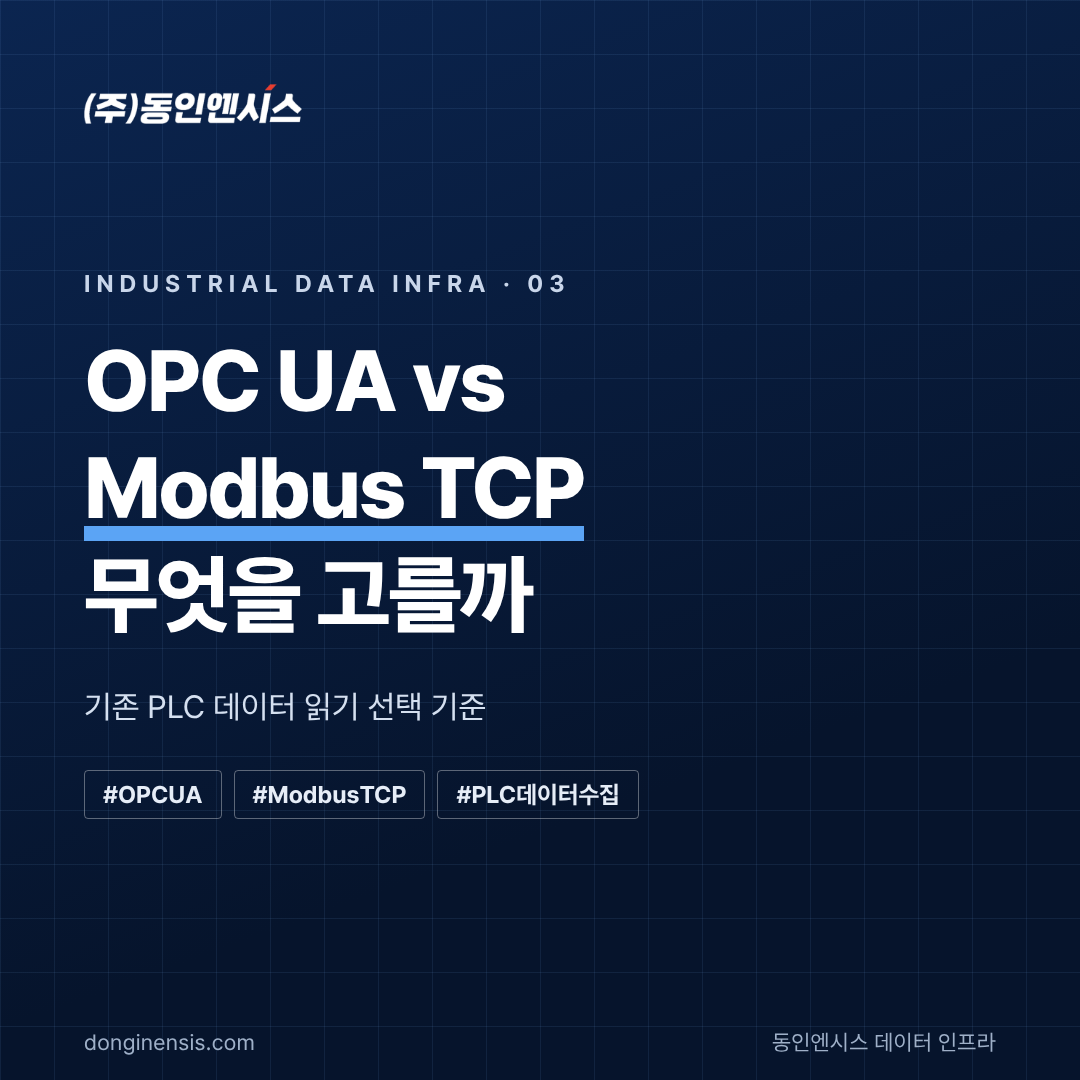
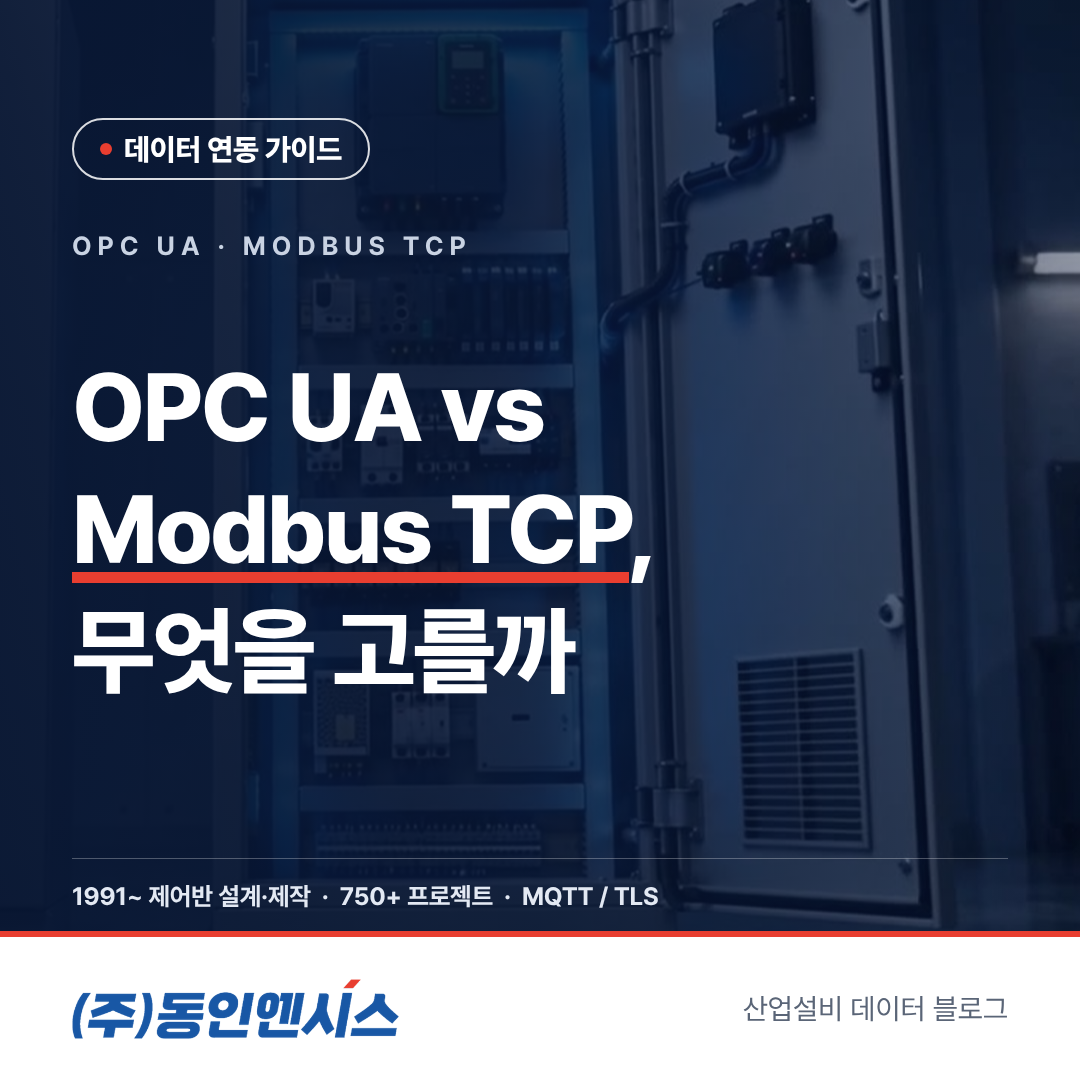
대표 이미지를 세 블로그 기존 썸네일 서식으로 통일
- blog/images.py thumb_fragment: 블로그별 배경 사진·라벨·빨간 밑줄 제목·아래 흰 띠(로고+블로그 문구)
- assets/thumb-bg/: 블로그별 배경 (bmk3037 어두운 제어반 열, donginensis 문 열린 제어반, donginensis3047 밝은 파란 제어반)
- 10/15~10/17 초안 9편 표지 다시 만듦, DAILY.md 표지 명령 변경

Claude-Session: https://claude.ai/code/session_01NXsXRUGdEyZ6oniYW4daEY

diff --git a/assets/image.css b/assets/image.css
@@ -133,3 +133,36 @@ table.cmp td:first-child { font-weight: 800; width: 22%; }
   background: rgba(6, 20, 44, .72); padding: 6px 12px; border-radius: 4px;
 }
 .photo > img.wm { position: absolute; right: 22px; bottom: 22px; height: 22px; opacity: .92; }
+
+/* ── 블로그 대표 이미지(썸네일) — 세 블로그에 이미 올라간 썸네일 서식을 그대로 따름 ──
+   .thumb.t-bmk3037 / .t-donginensis / .t-donginensis3047, 1080×1080 */
+.thumb { position: relative; width: 1080px; height: 1080px; overflow: hidden; background: #fff; font-family: "Pretendard", sans-serif; }
+.thumb .ph { position: absolute; left: 0; top: 0; width: 1080px; height: 937px; background-size: cover; background-position: center; }
+.thumb .ov { position: absolute; left: 0; top: 0; width: 1080px; height: 937px; }
+.thumb .body { position: absolute; left: 72px; right: 72px; top: 118px; color: #fff; }
+.thumb .pill { display: inline-flex; align-items: center; gap: 12px; height: 62px; padding: 0 26px; border-radius: 31px;
+  font-size: 30px; font-weight: 800; letter-spacing: -0.3px; }
+.thumb .pill i { width: 12px; height: 12px; border-radius: 50%; background: var(--red); display: inline-block; }
+.thumb .en { margin-top: 50px; font-size: 26px; font-weight: 700; letter-spacing: 6px; color: #C9D3E3; }
+.thumb h1 { margin: 86px 0 0; font-size: 96px; line-height: 1.27; font-weight: 800; letter-spacing: -2.5px; color: #fff; }
+.thumb h1 em { font-style: normal; color: #fff; background: linear-gradient(transparent 88%, var(--red) 88%, var(--red) 97%, transparent 97%); }
+.thumb .bar { position: absolute; left: 0; top: 931px; width: 1080px; height: 6px; background: var(--red); }
+.thumb .strip { position: absolute; left: 0; top: 937px; width: 1080px; height: 143px; display: flex; align-items: center;
+  justify-content: space-between; padding: 0 72px; background: #fff; }
+.thumb .strip img { height: 60px; }
+.thumb .strip span { font-size: 29px; color: #5A6577; }
+.thumb .spec { position: absolute; left: 72px; right: 72px; top: 858px; padding-top: 22px; border-top: 1.5px solid rgba(255,255,255,.28);
+  font-size: 25px; font-weight: 700; color: #E3E9F3; letter-spacing: -0.2px; }
+.thumb .since { position: absolute; left: 72px; top: 800px; height: 70px; padding: 0 30px; border-radius: 35px; background: #fff;
+  display: inline-flex; align-items: center; gap: 12px; font-size: 27px; font-weight: 800; color: #111B2E; }
+.thumb .since i { width: 14px; height: 14px; border-radius: 50%; background: #1DB45A; display: inline-block; }
+
+/* 현장 이야기(bmk3037): 파란 채운 라벨, 파란 선 */
+.thumb.t-bmk3037 .ov { background: linear-gradient(90deg, rgba(10,32,72,.94) 0%, rgba(10,32,72,.86) 55%, rgba(10,32,72,.70) 100%); }
+.thumb.t-bmk3037 .pill { background: #1857A5; color: #fff; }
+.thumb.t-bmk3037 .bar { background: #1857A5; }
+/* 데이터 인프라(donginensis): 테두리 라벨 + 빨간 점, 아래 실적 줄 */
+.thumb.t-donginensis .ov { background: linear-gradient(90deg, rgba(8,22,50,.95) 0%, rgba(8,22,50,.84) 50%, rgba(8,22,50,.45) 100%); }
+.thumb.t-donginensis .pill, .thumb.t-donginensis3047 .pill { border: 2px solid rgba(255,255,255,.85); color: #fff; }
+/* 지능형 제어반(donginensis3047): 밝은 파란 사진, 흰 '1991~' 라벨 */
+.thumb.t-donginensis3047 .ov { background: linear-gradient(90deg, rgba(10,36,84,.92) 0%, rgba(12,44,100,.70) 52%, rgba(12,44,100,.12) 100%); }

diff --git a/posts/2026-10-15-donginensis3047-001/preview.html b/posts/2026-10-15-donginensis3047-001/preview.html
@@ -14,7 +14,7 @@ button.done{background:#555}
 ol.check{margin:0;padding-left:20px;line-height:1.8;font-size:14px}
 #post{background:#fff;border:1px solid #dde2ea;border-radius:10px;padding:28px 24px}
 </style></head><body><div class="wrap">
-<div class="panel" style="background:#1857A5;color:#fff;border-color:#1857A5"><div style="font-size:13px;opacity:.85">이 글을 올릴 블로그</div><div style="font-size:20px;font-weight:700;margin-top:2px">동인엔시스 지능형 제어반 · <a href="https://blog.naver.com/donginensis3047" target="_blank" style="color:#fff">blog.naver.com/donginensis3047</a></div><div style="font-size:13px;opacity:.85;margin-top:4px">다른 블로그에 올리지 마세요 (블로그마다 주제가 다릅니다)</div></div><div class="panel" style="border-color:#e0a100"><h2>자동 검수</h2><ol class="check"><li style="color:#8a6100">⚠ 핵심 키워드 &#x27;지능형 제어반&#x27; 본문 9회 — 일부는 &#x27;이 제어반&#x27;처럼 바꿔 쓰기 (4~8회)</li></ol></div><div class="panel"><h2>① 제목</h2><div class="row"><div class="val" id="title">지능형 제어반이란? 일반 제어반과 무엇이 다를까</div>
+<div class="panel" style="background:#1857A5;color:#fff;border-color:#1857A5"><div style="font-size:13px;opacity:.85">이 글을 올릴 블로그</div><div style="font-size:20px;font-weight:700;margin-top:2px">동인엔시스 지능형 제어반 · <a href="https://blog.naver.com/donginensis3047" target="_blank" style="color:#fff">blog.naver.com/donginensis3047</a></div><div style="font-size:13px;opacity:.85;margin-top:4px">다른 블로그에 올리지 마세요 (블로그마다 주제가 다릅니다)</div></div><div class="panel" style="border-color:#e0a100"><h2>자동 검수</h2><ol class="check"><li style="color:#8a6100">⚠ 핵심 키워드 &#x27;지능형 제어반&#x27; 본문 9회 — 일부는 &#x27;이 제어반&#x27;처럼 바꿔 쓰기 (4~8회)</li><li style="color:#c62828">✗ 같은 문장 1개 — [초안 2026-10-17-donginensis3047-005] 스마트공장 지원사업으로 지능형 제어반 도입하기, 신청부터 사후관리까지 5: “설비 수, 모터 용량, 수집 항목, 통신 환경, 기존 제어반 교체 여부에 따라 달라집니다.…”</li></ol></div><div class="panel"><h2>① 제목</h2><div class="row"><div class="val" id="title">지능형 제어반이란? 일반 제어반과 무엇이 다를까</div>
 <button data-copy="title">제목 복사</button></div></div>
 <div class="panel"><h2>② 본문 — [본문 복사] 후 스마트에디터에 붙여넣고, 파란 상자 자리에 images 폴더의 그림을 끌어다 놓으세요. 노란 상자가 있으면 [프롬프트 복사] → ChatGPT로 사진을 만들어 그 자리에 넣으세요</h2>
 <button data-copy="post">본문 복사</button></div>

diff --git a/posts/2026-10-15-donginensis-037/images/01-cover.html b/posts/2026-10-15-donginensis-037/images/01-cover.html
@@ -1,2 +1,2 @@
 <!-- 1080x1080 -->
-<div class="frame cover t-data"><div class="content"><div class=eyebrow>INDUSTRIAL DATA INFRA · 01</div><h1>설비 데이터 수집,<br>왜 <em>제어반</em>에서<br>시작해야 할까</h1><p class=lead>스마트팩토리와 AI의 첫 단추는 현장 설비 데이터</p><div class="tags"><span>#설비데이터수집</span><span>#스마트팩토리</span><span>#지능형제어반</span></div></div></div>
+<div class="thumb t-donginensis"><div class="ph" style="background-image:url(__ASSETS__/thumb-bg/donginensis.jpg)"></div><div class="ov"></div><div class="body"><span class="pill"><i></i>데이터 수집</span><div class=en>DATA COLLECTION</div><h1>설비 데이터 수집,<br><em>왜 제어반에서</em><br>시작할까</h1></div><div class="spec">1991~ 제어반 설계·제작 &nbsp;·&nbsp; 750+ 프로젝트 &nbsp;·&nbsp; MQTT / TLS</div><div class="bar"></div><div class="strip"><img class="logo" src="__ASSETS__/logo/logo_color.png" alt="(주)동인엔시스"><span>산업설비 데이터 블로그</span></div><div class="footer" style="display:none"></div></div>

diff --git a/posts/2026-10-16-donginensis-013/images/01-cover.html b/posts/2026-10-16-donginensis-013/images/01-cover.html
@@ -1,2 +1,2 @@
 <!-- 1080x1080 -->
-<div class="frame cover t-data"><div class="content"><div class=eyebrow>INDUSTRIAL DATA INFRA · 02</div><h1>설비 데이터 API 연동,<br><em>MES·AI 기업</em>이<br>자주 묻는 12가지</h1><p class=lead>현장 데이터 연결, IT기업이 궁금한 것만 모았습니다</p><div class="tags"><span>#설비데이터API</span><span>#MES연동</span><span>#OT데이터</span></div></div></div>
+<div class="thumb t-donginensis"><div class="ph" style="background-image:url(__ASSETS__/thumb-bg/donginensis.jpg)"></div><div class="ov"></div><div class="body"><span class="pill"><i></i>데이터 연동 가이드</span><div class=en>EQUIPMENT DATA API</div><h1>설비 데이터 API,<br><em>IT기업이 묻는</em><br>12가지</h1></div><div class="spec">1991~ 제어반 설계·제작 &nbsp;·&nbsp; 750+ 프로젝트 &nbsp;·&nbsp; MQTT / TLS</div><div class="bar"></div><div class="strip"><img class="logo" src="__ASSETS__/logo/logo_color.png" alt="(주)동인엔시스"><span>산업설비 데이터 블로그</span></div><div class="footer" style="display:none"></div></div>

diff --git a/posts/2026-10-15-donginensis3047-001/images/01-cover.html b/posts/2026-10-15-donginensis3047-001/images/01-cover.html
@@ -1,2 +1,2 @@
 <!-- 1080x1080 -->
-<div class="frame cover t-panel"><div class="content"><div class=eyebrow>INTELLIGENT CONTROL PANEL · 01</div><h1>지능형 제어반이란?<br><em>일반 제어반</em>과<br>무엇이 다를까</h1><p class=lead>제어하면서 설비 데이터까지 연결하는 제어반</p><div class="tags"><span>#지능형제어반</span><span>#설비데이터</span><span>#스마트팩토리</span></div></div></div>
+<div class="thumb t-donginensis3047"><div class="ph" style="background-image:url(__ASSETS__/thumb-bg/donginensis3047.jpg)"></div><div class="ov"></div><div class="body"><span class="pill"><i></i>지능형 제어반</span><div class=en>INTELLIGENT CONTROL PANEL</div><h1>지능형 제어반이란?<br><em>일반 제어반과</em><br>무엇이 다를까</h1></div><div class="since"><i></i>1991~ 제어반 설계·제작</div><div class="bar"></div><div class="strip"><img class="logo" src="__ASSETS__/logo/logo_color.png" alt="(주)동인엔시스"><span>지능형 제어반 전문 블로그</span></div><div class="footer" style="display:none"></div></div>

diff --git a/posts/2026-10-17-donginensis3047-005/images/01-cover.html b/posts/2026-10-17-donginensis3047-005/images/01-cover.html
@@ -1,2 +1,2 @@
 <!-- 1080x1080 -->
-<div class="frame cover t-panel"><div class="content"><div class=eyebrow>INTELLIGENT CONTROL PANEL · 03</div><h1>스마트공장<br><em>지원사업</em>으로<br>제어반 도입하기</h1><p class=lead>신청부터 사후관리까지 5단계</p><div class="tags"><span>#스마트공장지원사업</span><span>#공급기업</span><span>#지능형제어반</span></div></div></div>
+<div class="thumb t-donginensis3047"><div class="ph" style="background-image:url(__ASSETS__/thumb-bg/donginensis3047.jpg)"></div><div class="ov"></div><div class="body"><span class="pill"><i></i>도입 가이드</span><div class=en>SMART FACTORY SUPPORT</div><h1>스마트공장<br><em>지원사업</em>으로<br>제어반 도입하기</h1></div><div class="since"><i></i>1991~ 제어반 설계·제작</div><div class="bar"></div><div class="strip"><img class="logo" src="__ASSETS__/logo/logo_color.png" alt="(주)동인엔시스"><span>지능형 제어반 전문 블로그</span></div><div class="footer" style="display:none"></div></div>

diff --git a/posts/2026-10-17-donginensis-011/images/01-cover.html b/posts/2026-10-17-donginensis-011/images/01-cover.html
@@ -1,2 +1,2 @@
 <!-- 1080x1080 -->
-<div class="frame cover t-data"><div class="content"><div class=eyebrow>INDUSTRIAL DATA INFRA · 03</div><h1>OPC UA vs<br><em>Modbus TCP</em><br>무엇을 고를까</h1><p class=lead>기존 PLC 데이터 읽기 선택 기준</p><div class="tags"><span>#OPCUA</span><span>#ModbusTCP</span><span>#PLC데이터수집</span></div></div></div>
+<div class="thumb t-donginensis"><div class="ph" style="background-image:url(__ASSETS__/thumb-bg/donginensis.jpg)"></div><div class="ov"></div><div class="body"><span class="pill"><i></i>데이터 연동 가이드</span><div class=en>OPC UA · MODBUS TCP</div><h1>OPC UA vs<br><em>Modbus TCP</em>,<br>무엇을 고를까</h1></div><div class="spec">1991~ 제어반 설계·제작 &nbsp;·&nbsp; 750+ 프로젝트 &nbsp;·&nbsp; MQTT / TLS</div><div class="bar"></div><div class="strip"><img class="logo" src="__ASSETS__/logo/logo_color.png" alt="(주)동인엔시스"><span>산업설비 데이터 블로그</span></div><div class="footer" style="display:none"></div></div>

diff --git a/posts/2026-10-16-donginensis3047-003/images/01-cover.html b/posts/2026-10-16-donginensis3047-003/images/01-cover.html
@@ -1,2 +1,2 @@
 <!-- 1080x1080 -->
-<div class="frame cover t-panel"><div class="content"><div class=eyebrow>INTELLIGENT CONTROL PANEL · 02</div><h1>모터 온도 감시<br><em>먼저 볼 신호</em><br>7가지</h1><p class=lead>권선온도·베어링 온도 체크리스트</p><div class="tags"><span>#모터온도감시</span><span>#권선온도</span><span>#베어링온도</span></div></div></div>
+<div class="thumb t-donginensis3047"><div class="ph" style="background-image:url(__ASSETS__/thumb-bg/donginensis3047.jpg)"></div><div class="ov"></div><div class="body"><span class="pill"><i></i>이상감지 체크리스트</span><div class=en>MOTOR TEMPERATURE</div><h1>모터 온도 감시,<br><em>먼저 볼 신호</em><br>7가지</h1></div><div class="since"><i></i>1991~ 제어반 설계·제작</div><div class="bar"></div><div class="strip"><img class="logo" src="__ASSETS__/logo/logo_color.png" alt="(주)동인엔시스"><span>지능형 제어반 전문 블로그</span></div><div class="footer" style="display:none"></div></div>

diff --git a/posts/2026-10-15-bmk3037-021/images/01-cover.html b/posts/2026-10-15-bmk3037-021/images/01-cover.html
@@ -1,2 +1,2 @@
 <!-- 1080x1080 -->
-<div class="frame cover t-field"><div class="content"><div class=eyebrow>FIELD STORY · 수소 01</div><h1><em>액화수소충전소</em><br>제어시스템은<br>무엇을 제어할까</h1><p class=lead>현장에서 본 제어 대상 4가지</p><div class="tags"><span>#액화수소충전소</span><span>#수소충전소제어</span><span>#제어반제작</span></div></div></div>
+<div class="thumb t-bmk3037"><div class="ph" style="background-image:url(__ASSETS__/thumb-bg/bmk3037.jpg)"></div><div class="ov"></div><div class="body"><span class="pill">수소·에너지</span><div class=en>HYDROGEN STATION</div><h1><em>액화수소충전소</em><br>제어시스템은<br>무엇을 제어할까</h1></div><div class="bar"></div><div class="strip"><img class="logo" src="__ASSETS__/logo/logo_color.png" alt="(주)동인엔시스"><span>donginensis.com</span></div><div class="footer" style="display:none"></div></div>

diff --git a/posts/2026-10-16-bmk3037-016/images/01-cover.html b/posts/2026-10-16-bmk3037-016/images/01-cover.html
@@ -1,2 +1,2 @@
 <!-- 1080x1080 -->
-<div class="frame cover t-field"><div class="content"><div class=eyebrow>FIELD STORY · 조선해양 01</div><h1>선박 제어반<br><em>선급 승인</em><br>6단계</h1><p class=lead>설계부터 검사관 입회 시험까지</p><div class="tags"><span>#선박제어반</span><span>#선급승인</span><span>#조선기자재</span></div></div></div>
+<div class="thumb t-bmk3037"><div class="ph" style="background-image:url(__ASSETS__/thumb-bg/bmk3037.jpg)"></div><div class="ov"></div><div class="body"><span class="pill">조선·해양</span><div class=en>CLASS APPROVAL</div><h1>선박 제어반,<br><em>선급 승인</em><br>6단계</h1></div><div class="bar"></div><div class="strip"><img class="logo" src="__ASSETS__/logo/logo_color.png" alt="(주)동인엔시스"><span>donginensis.com</span></div><div class="footer" style="display:none"></div></div>

diff --git a/posts/2026-10-17-bmk3037-017/images/01-cover.html b/posts/2026-10-17-bmk3037-017/images/01-cover.html
@@ -1,2 +1,2 @@
 <!-- 1080x1080 -->
-<div class="frame cover t-field"><div class="content"><div class=eyebrow>FIELD STORY · 조선해양 02</div><h1><em>FGSS 제어</em><br>쉽게<br>이해하기</h1><p class=lead>용어 6개로 보는 LNG 연료 공급</p><div class="tags"><span>#FGSS</span><span>#LNG추진선</span><span>#선박제어반</span></div></div></div>
+<div class="thumb t-bmk3037"><div class="ph" style="background-image:url(__ASSETS__/thumb-bg/bmk3037.jpg)"></div><div class="ov"></div><div class="body"><span class="pill">조선·해양</span><div class=en>FUEL GAS SUPPLY SYSTEM</div><h1><em>FGSS 제어</em>,<br>용어 6개로<br>쉽게 이해하기</h1></div><div class="bar"></div><div class="strip"><img class="logo" src="__ASSETS__/logo/logo_color.png" alt="(주)동인엔시스"><span>donginensis.com</span></div><div class="footer" style="display:none"></div></div>

diff --git a/blog/images.py b/blog/images.py
@@ -54,6 +54,35 @@ def find_chrome():
     sys.exit("크롬(Chromium)을 찾지 못했습니다. CHROME 환경변수로 경로를 알려 주세요.")
 
 
+THUMB = {
+    # 블로그별 썸네일 서식: 아래 띠 오른쪽 글자, 사진 위 추가 요소
+    "bmk3037": {"right": "donginensis.com", "extra": ""},
+    "donginensis": {"right": "산업설비 데이터 블로그",
+                    "extra": '<div class="spec">1991~ 제어반 설계·제작 &nbsp;·&nbsp; 750+ 프로젝트 &nbsp;·&nbsp; MQTT / TLS</div>'},
+    "donginensis3047": {"right": "지능형 제어반 전문 블로그",
+                        "extra": '<div class="since"><i></i>1991~ 제어반 설계·제작</div>'},
+}
+
+
+def thumb_fragment(blog_id, title, label, en=""):
+    """블로그 대표 이미지(1080×1080). 세 블로그에 이미 올라간 썸네일과 같은 서식.
+    title: 줄바꿈 \\n, 빨간 밑줄 *강조*  /  label: 왼쪽 위 라벨(한글)  /  en: 그 아래 영문 한 줄"""
+    t = THUMB[blog_id]
+    title_html = re.sub(r"\*(.+?)\*", r"<em>\1</em>", html.escape(title)).replace("\n", "<br>")
+    dot = "" if blog_id == "bmk3037" else "<i></i>"
+    return (
+        "<!-- 1080x1080 -->\n"
+        f'<div class="thumb t-{blog_id}">'
+        f'<div class="ph" style="background-image:url(__ASSETS__/thumb-bg/{blog_id}.jpg)"></div><div class="ov"></div>'
+        f'<div class="body"><span class="pill">{dot}{html.escape(label)}</span>'
+        f'{f"<div class=en>{html.escape(en.upper())}</div>" if en else ""}'
+        f"<h1>{title_html}</h1></div>"
+        f'{t["extra"]}<div class="bar"></div>'
+        f'<div class="strip"><img class="logo" src="__ASSETS__/logo/logo_color.png" alt="(주)동인엔시스">'
+        f'<span>{t["right"]}</span></div><div class="footer" style="display:none"></div></div>\n'
+    )
+
+
 def blog_of(post_dir):
     """폴더 이름(날짜-블로그-번호)에서 블로그 id를 찾습니다"""
     return next((b for b in blogs.ORDER if f"-{b}-" in Path(post_dir).name), None)
@@ -75,6 +104,7 @@ def wrap(fragment, label=DEFAULT_LABEL):
     if 'class="footer"' not in fragment:
         footer = (COVER_FOOTER if is_cover else FOOTER).format(label=html.escape(label))
         fragment = re.sub(r"</div>\s*$", footer + "</div>", fragment.strip(), count=1)
+    fragment = fragment.replace("__ASSETS__", ASSETS.as_uri())
     return PAGE.format(fonts=(ASSETS / "fonts").as_uri(), css=(ASSETS / "image.css").as_uri(), body=fragment)
 
 
@@ -157,12 +187,17 @@ def main(argv=None):
     p.add_argument("--kicker", default="")
     p.add_argument("--tags", nargs="*", default=[])
     p.add_argument("--blog", choices=blogs.ORDER, help="표지 색을 이 블로그 서식으로 (폴더 이름에서 자동으로 찾음)")
+    p.add_argument("--label", help="대표 이미지 왼쪽 위 라벨 (예: 지능형 제어반, 적용 사례). 주면 블로그 썸네일 서식으로 만듦")
+    p.add_argument("--en", default="", help="라벨 아래 영문 한 줄 (예: PREDICTIVE MAINTENANCE)")
     args = p.parse_args(argv)
     img_dir = Path(args.post_dir) / "images"
     img_dir.mkdir(parents=True, exist_ok=True)
     blog_id = args.blog or blog_of(args.post_dir)
     theme = blogs.get(blog_id)["theme"] if blog_id else "panel"
-    if args.cover:
+    if args.cover and args.label and blog_id:
+        (img_dir / "01-cover.html").write_text(
+            thumb_fragment(blog_id, args.cover.replace("\\n", "\n"), args.label, args.en), encoding="utf-8")
+    elif args.cover:
         (img_dir / "01-cover.html").write_text(
             cover_fragment(args.cover.replace("\\n", "\n"), args.sub, args.kicker, args.tags, theme), encoding="utf-8")
     render_dir(args.post_dir)
